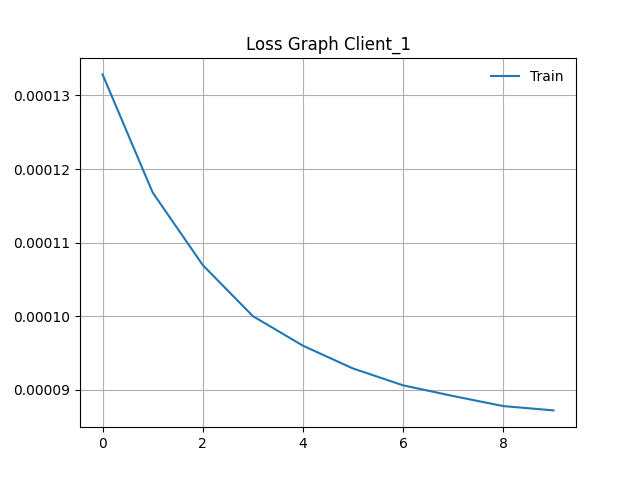
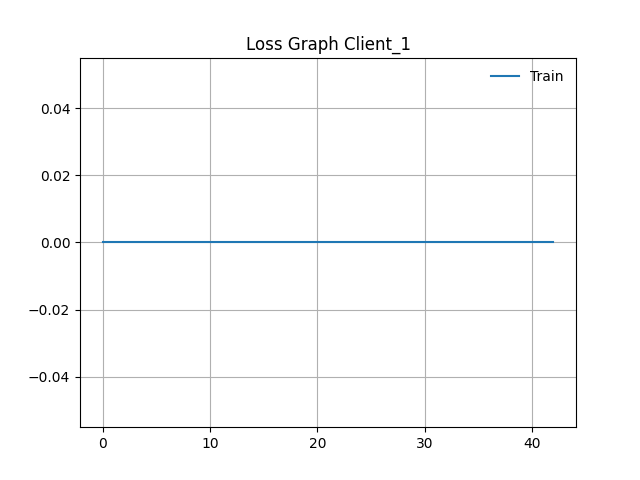
Ready to explore and dive into results.

diff --git a/flower/client.py b/flower/client.py
@@ -180,18 +180,22 @@ def train(net, trainloader, epochs):
 def test(net, testloader):
     """Validate the network on the entire test set."""
     criterion = torch.nn.MSELoss()
-    correct, total, loss = 0, 0, 0.0
+    correct, total, loss_total = 0, 0, 0.0
+    loss_list = []
+    loss = 0
     with torch.no_grad():
         for data in testloader:
             images, labels = data[0].to(DEVICE), data[1].to(DEVICE)
             outputs = net(images)
-            loss += criterion(outputs, labels).item()
+            loss_total += criterion(outputs, labels).item()
             _, predicted = torch.max(outputs.data, 0)
             total += labels.size(0)
             correct += (predicted == labels).sum().item()
+            loss_list.append(loss)
     accuracy = correct / total
     print(f"Test Loss (AVG): {loss}")
-    return loss, accuracy
+    create_loss_graph(loss_list, str("Loss Test_" + str(args.client_id)))
+    return loss, accuracy, loss_list
 
 
 class ShallowRegressionLSTM(nn.Module):
@@ -236,6 +240,7 @@ class FlowerClient(fl.client.NumPyClient):
     def fit(self, parameters, config):
         self.set_parameters(parameters)
         self.losses_train = train(net, trainloader, epochs=10)
+        create_loss_graph(self.losses_train, str("Loss Train_" + str(args.client_id)))
         return self.get_parameters(config={}), len(trainloader.dataset), {}
 
     def evaluate(self, parameters, config):
@@ -268,4 +273,3 @@ fl.client.start_numpy_client(
     client=client,
 )
 print("Fim do Cliente: "+str(args.client_id))
-create_loss_graph(client.losses_train, str("Loss Graph Client_"+str(args.client_id)))

diff --git a/flower/server.py b/flower/server.py
@@ -1,4 +1,3 @@
 import flwr as fl
 
 fl.server.start_server(config=fl.server.ServerConfig(num_rounds=1))
-print(type(fl.server.Server.evaluate_round(1)))
